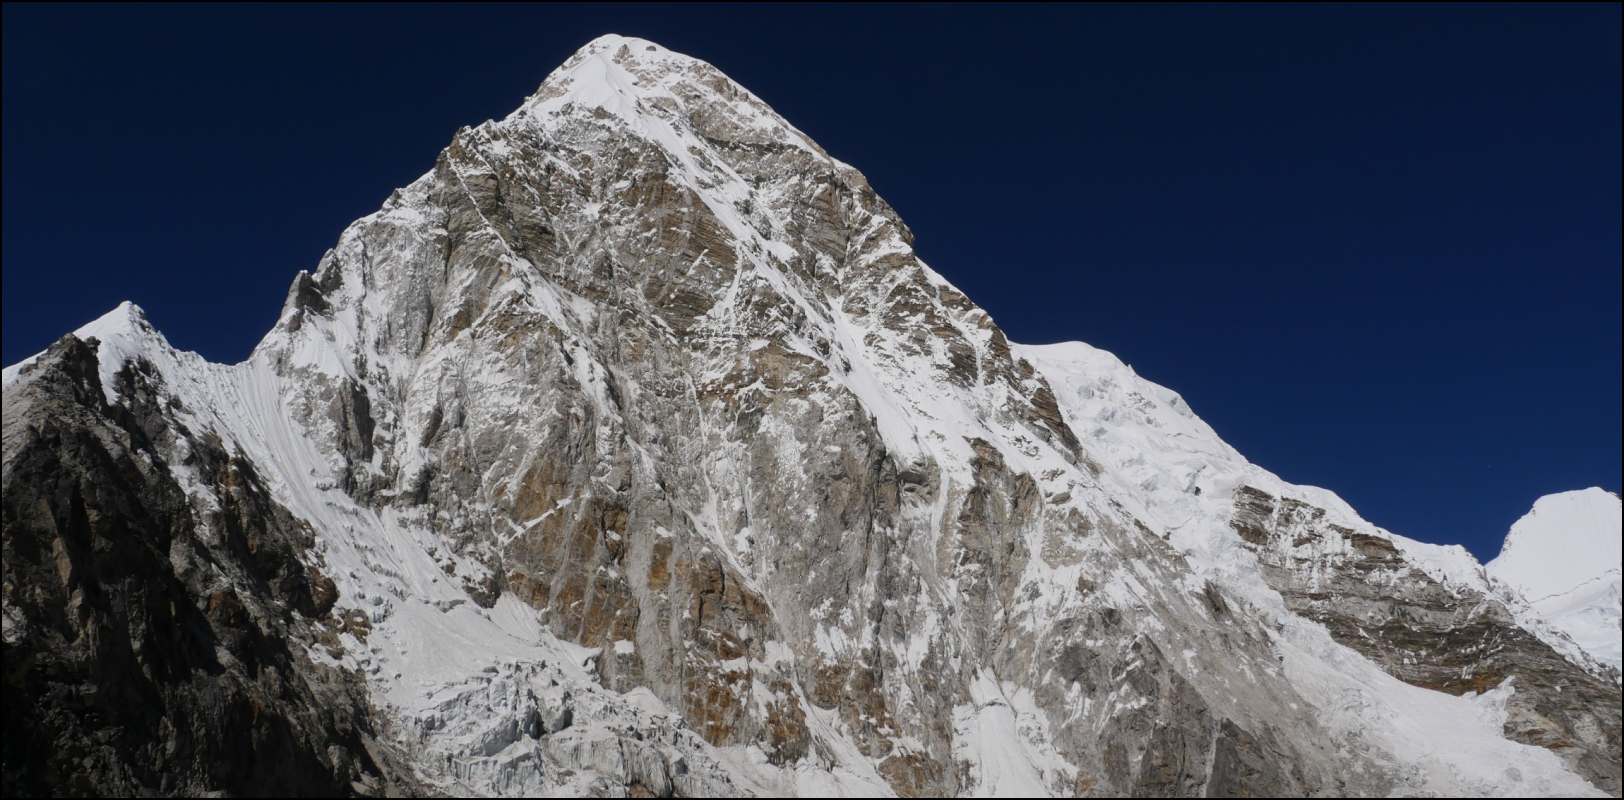
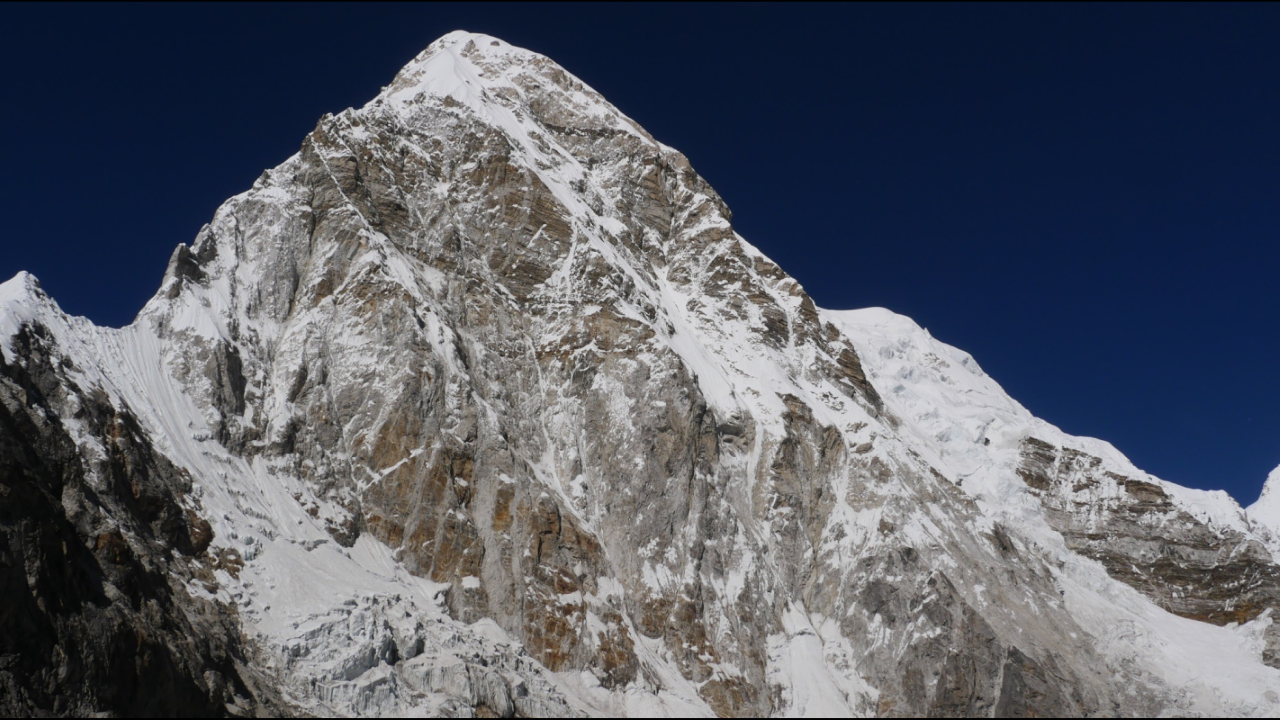
improved the slider

diff --git a/trekkingfrontend/src/components/Homepage.jsx b/trekkingfrontend/src/components/Homepage.jsx
@@ -18,24 +18,24 @@ const Homepage = () => {
   const slides = [
     {
       id: 1,
-      image: "/images/annapurna.JPG",
+      image: "/images/5.jpeg",
       alt: "Annapurna Base Camp",
       caption: "Explore Annapurna Base Camp",
       link: "/packages/1",
     },
     {
       id: 2,
-      image: "/images/everest.png",
+      image: "/images/8.JPG",
       alt: "Everest Base Camp",
       caption: "Discover Everest Base Camp",
       link: "/packages/2",
     },
     {
       id: 3,
-      image: "/images/manaslu.JPG",
-      alt: "Manaslu Circuit",
-      caption: "Trek the Manaslu Circuit",
-      link: "/packages/3",
+      image: "/images/9.jpeg",
+      alt: "rhino",
+      caption: "Chitwan Pokhara Tour",
+      link: "/packages/6",
     },
   ];
 
@@ -129,11 +129,11 @@ const Homepage = () => {
         <Slider {...sliderSettings}>
           {slides.map((slide) => (
             <div key={slide.id}>
-              <div className="relative h-[400px]">
+              <div className="relative w-full h-[550px] rounded-lg">
                 <img
                   src={slide.image}
                   alt={slide.alt}
-                  className="w-full h-full object-cover"
+                  className="w-full h-full object-cover object-center"
                 />
                 <div className="absolute bottom-4 left-4 bg-black bg-opacity-50 text-white p-2 rounded">
                   <h2 className="text-xl font-bold">{slide.caption}</h2>
